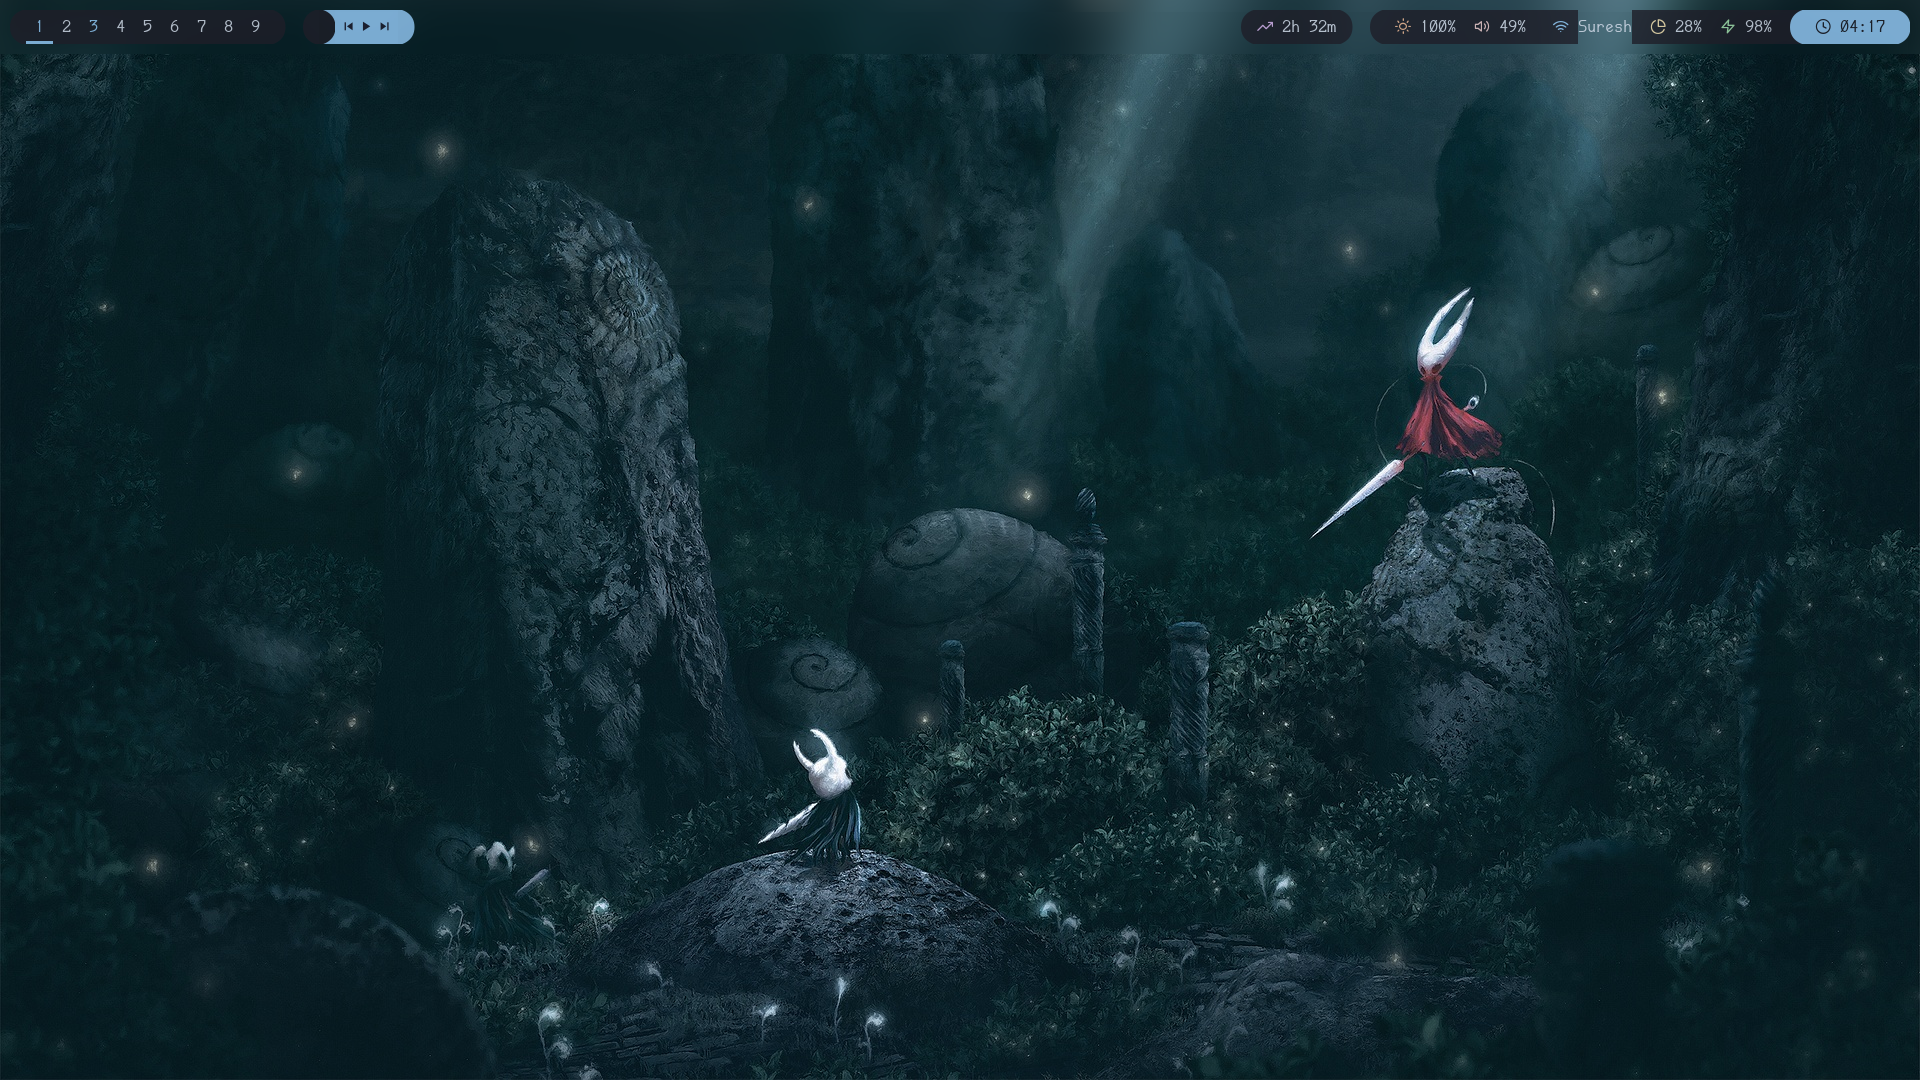
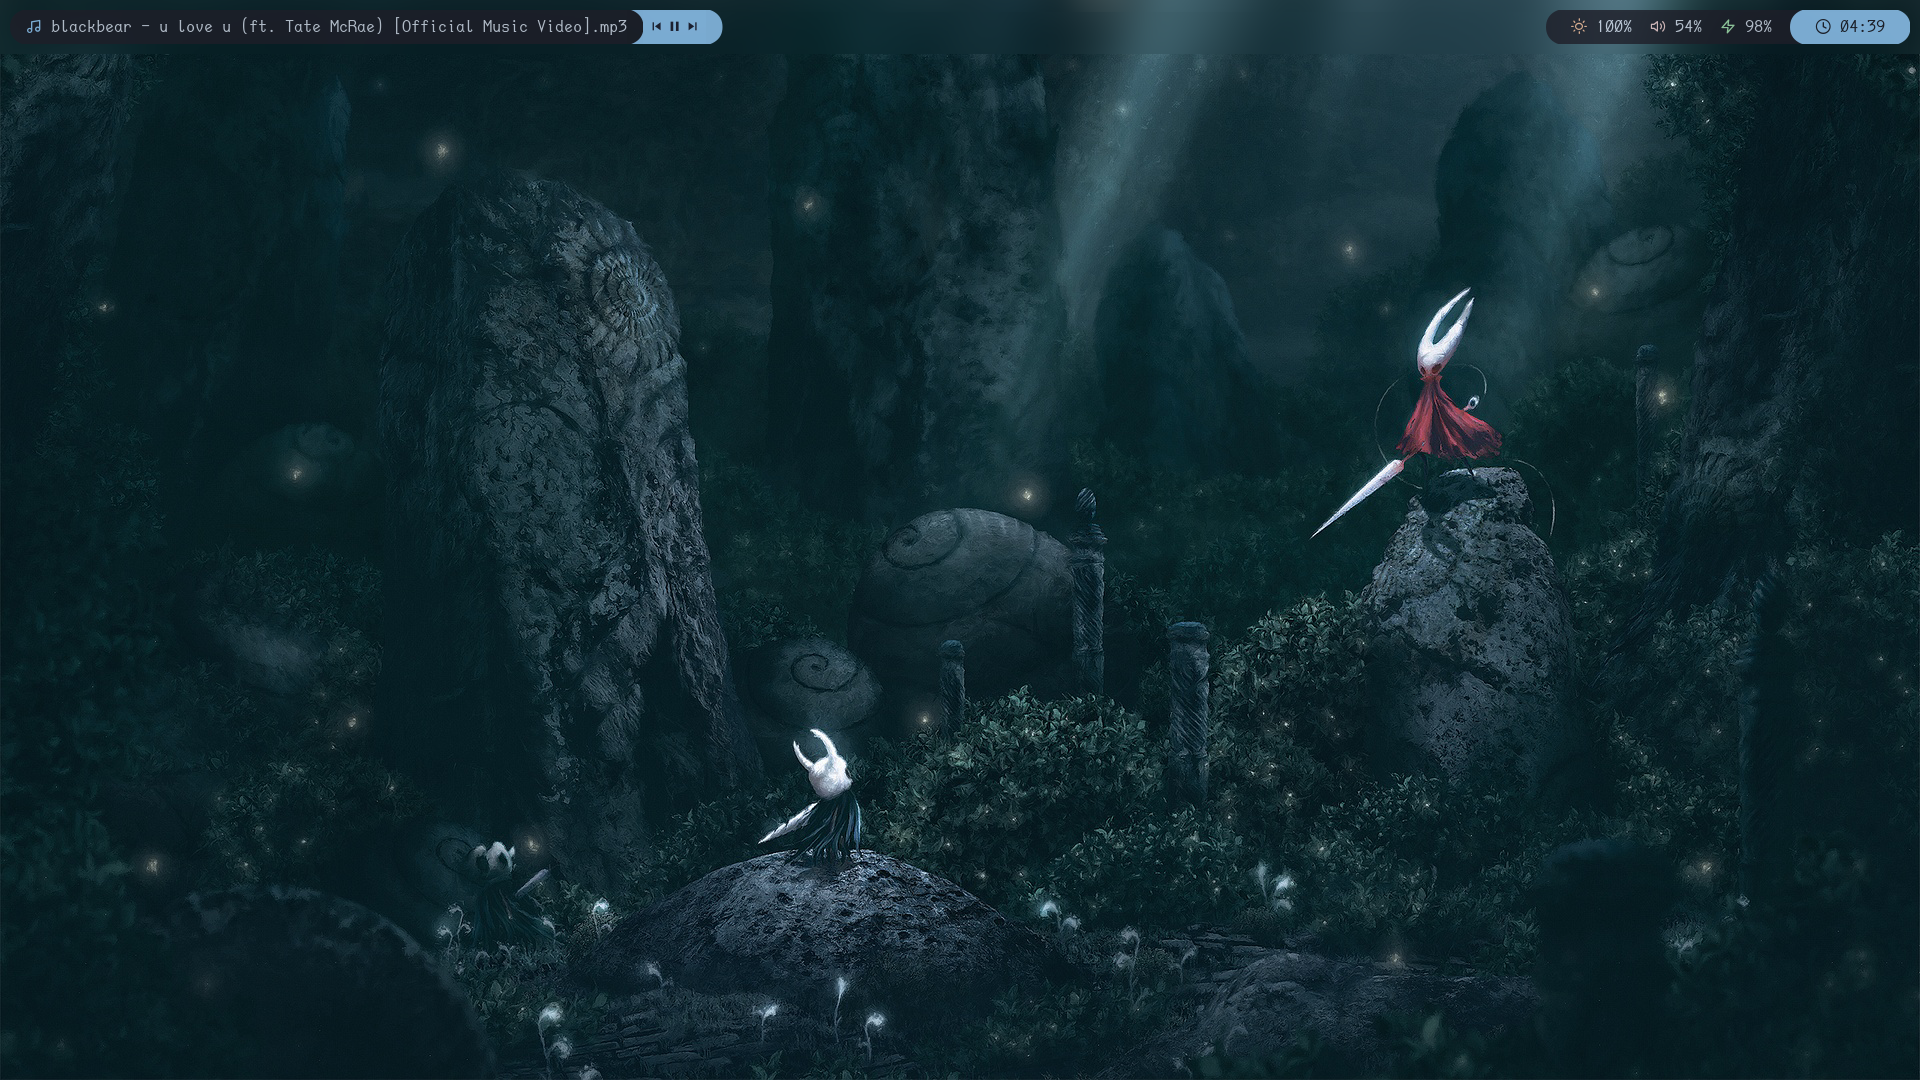
Testing README in org mode

Changed region(s): [[0.0312, 0.0, 0.375, 0.0611], [0.6875, 0.0, 0.875, 0.0611], [0.625, 0.0, 0.6562, 0.0306]]

diff --git a/README.md b/README.md
@@ -117,7 +117,7 @@ The amount of stuff I fixed towards, blows my mind.\
 Referencing saimoo's rice, I managed to fix a few issues that was really bugging me from the initial days of working with Arch Linux.
 
 -   MPD :: I finally managed to fix mpd, simply by getting rid of the template configuration and actually going through the file, discarding what was not required.
--   Polybar :: Managed to rip off Saimoo's rice, and get it to work! However, I think I'll strip most of the rice at a later point and only include the time, and battery percent.
+-   Polybar :: Took in Saimoo's rice, and got it to work! Considering that I don't play too much attention to the windows, I've removed them entirely though.
 
 A few forum answers that helped me out here a bit were, \
 [Failed to bind the mpd service](https://bbs.archlinux.org/viewtopic.php?id=120371) \
